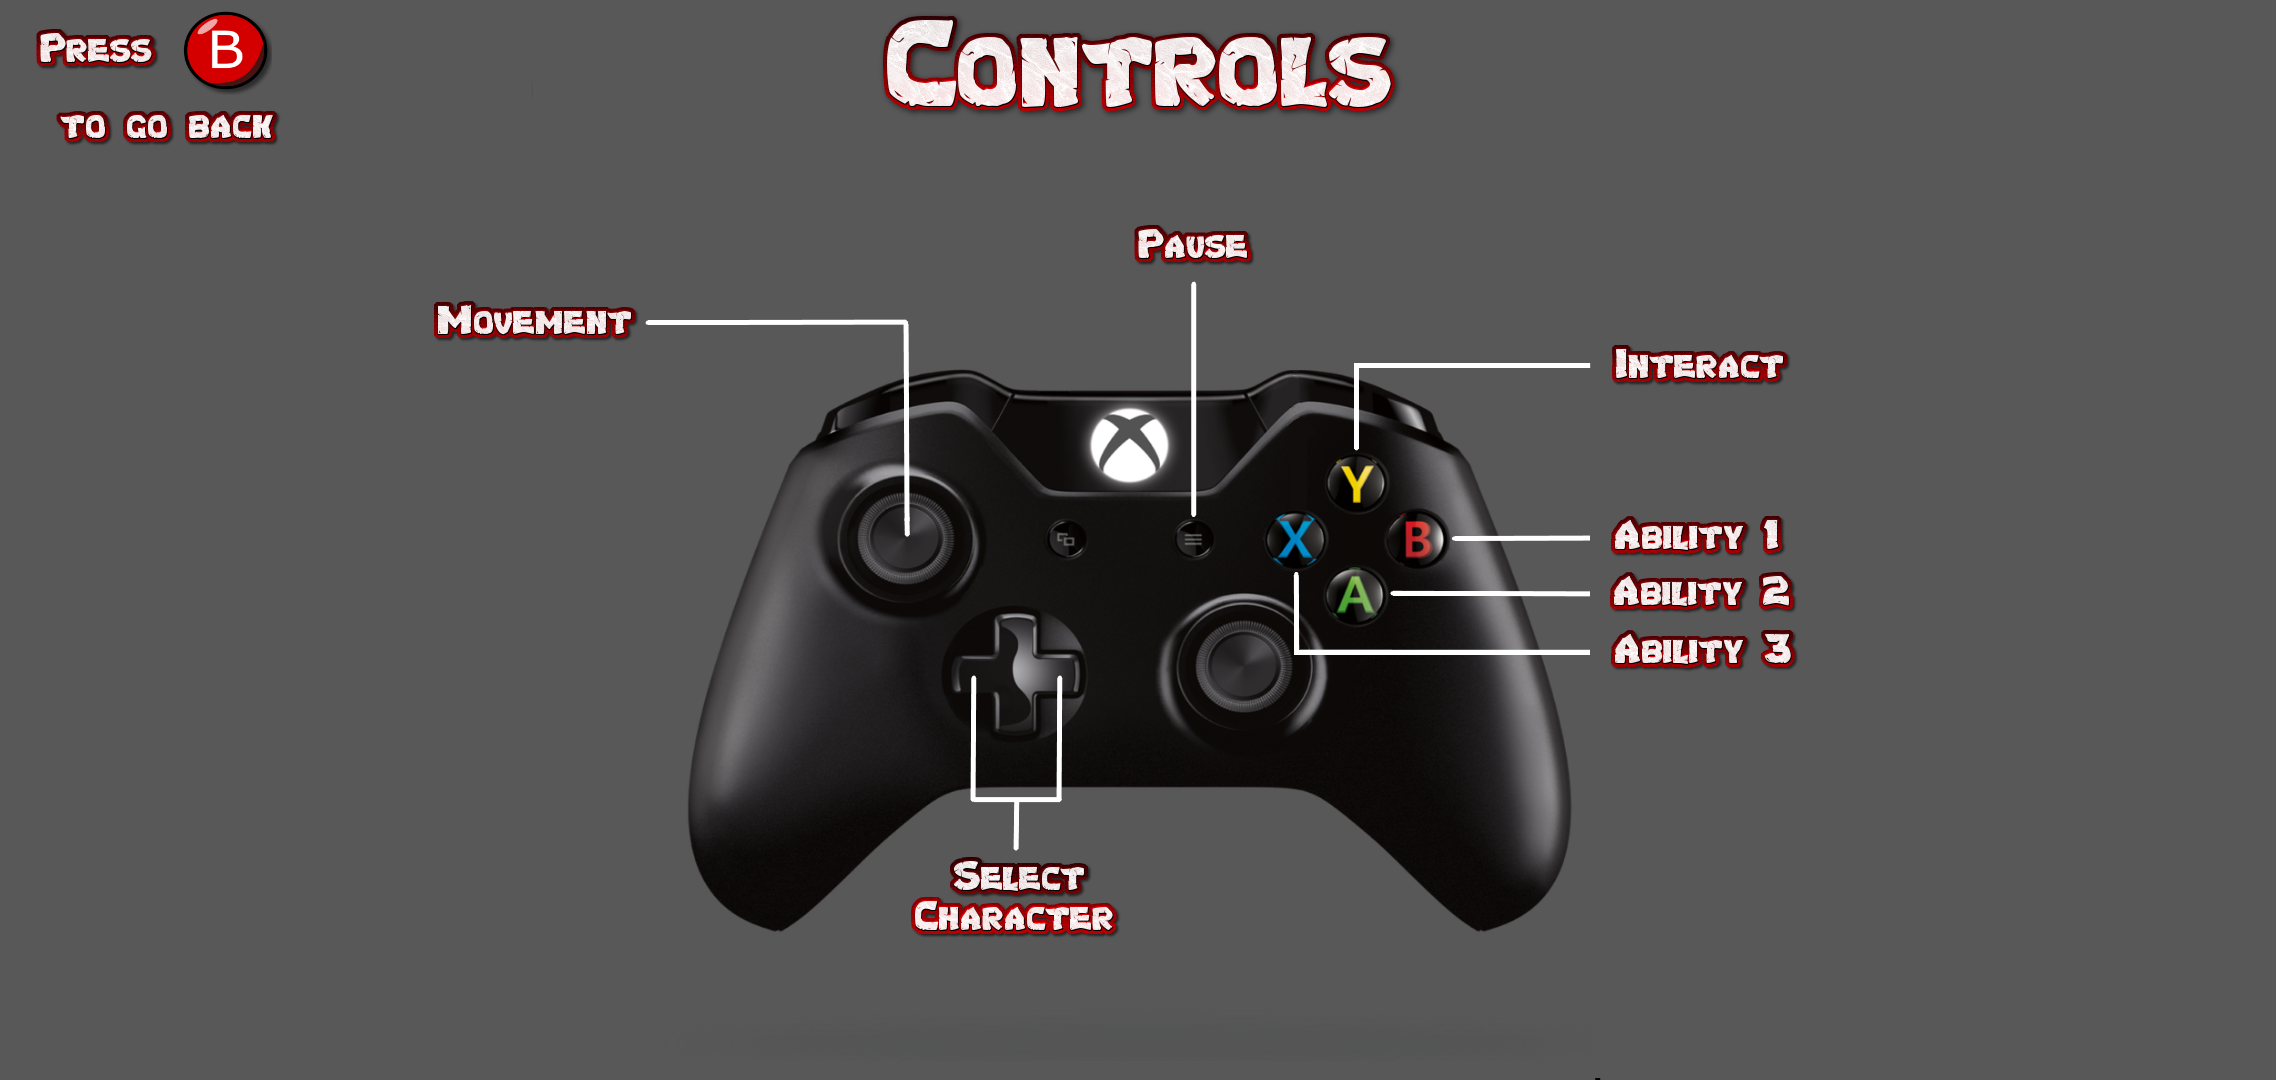
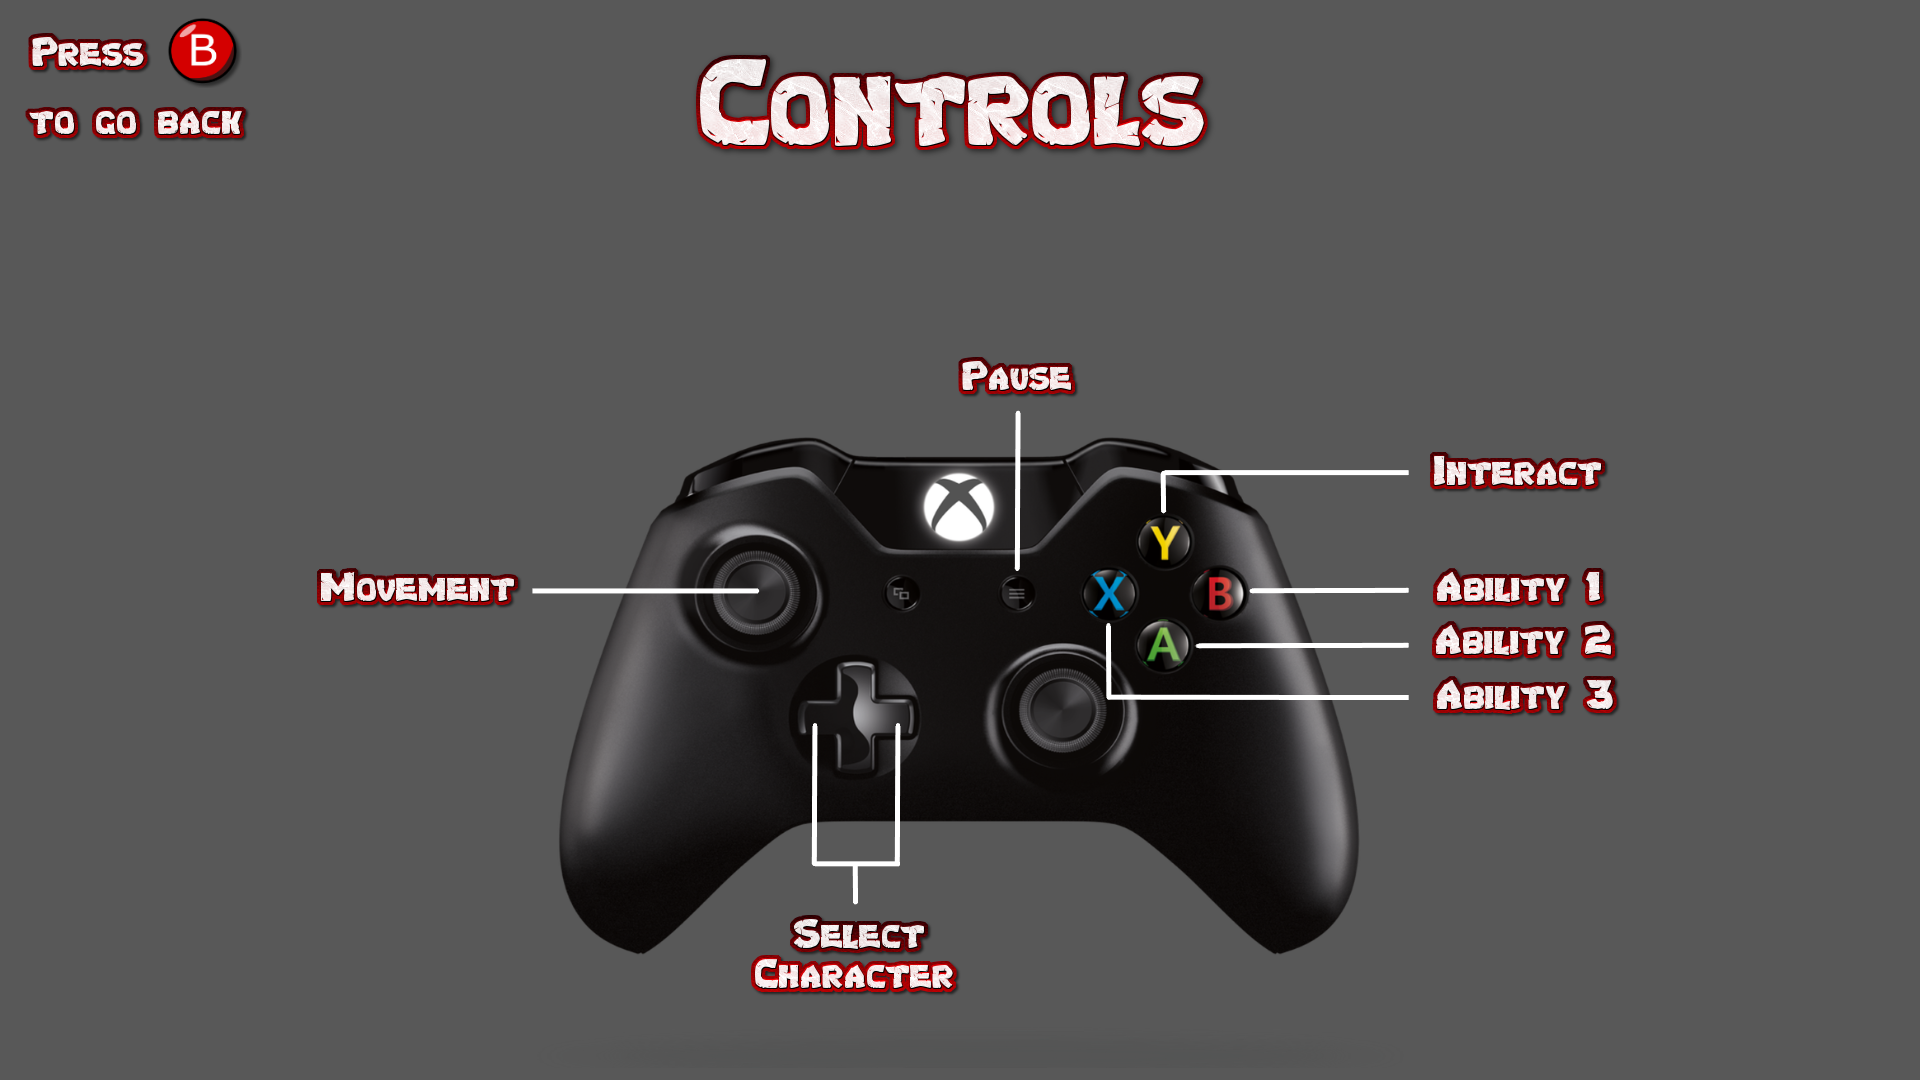
Denna commit fixar: - Hud bakgrund - Controls menyn - Alternativet att gå tillbaka i controls - Visuellt hur man skippar intro texten.

diff --git a/Paging_the_devil/Paging_the_devil/Manager/MenuManager.cs b/Paging_the_devil/Paging_the_devil/Manager/MenuManager.cs
@@ -30,6 +30,7 @@ namespace Paging_the_devil.Manager
 
         Vector2 pointerPos;
         Vector2 storyTextPos;
+        Vector2 skipTextPos;
 
         StreamReader streamReader;
 
@@ -47,10 +48,13 @@ namespace Paging_the_devil.Manager
             middleScreenX = (ValueBank.WindowSizeX/2);
 
             buttonList.Add(new Button(TextureBank.menuTextureList[0], graphicsDevice, new Vector2(middleScreenX - TextureBank.menuTextureList[0].Width/ 2, middleScreenY - TextureBank.menuTextureList[0].Height)));
-            buttonList.Add(new Button(TextureBank.menuTextureList[2], graphicsDevice, new Vector2(middleScreenX - TextureBank.menuTextureList[0].Width/ 2, middleScreenY - TextureBank.menuTextureList[0].Height + 200)));
+            buttonList.Add(new Button(TextureBank.menuTextureList[1], graphicsDevice, new Vector2(middleScreenX - TextureBank.menuTextureList[0].Width/ 2, middleScreenY - TextureBank.menuTextureList[0].Height + 150)));
+            buttonList.Add(new Button(TextureBank.menuTextureList[2], graphicsDevice, new Vector2(middleScreenX - TextureBank.menuTextureList[0].Width / 2, middleScreenY - TextureBank.menuTextureList[0].Height + 300)));
 
             pointerPos = new Vector2(buttonList[0].GetPos.X - 200, buttonList[0].GetPos.Y + 10);
             storyTextPos = new Vector2(70, ValueBank.WindowSizeY - 100);
+            skipTextPos = new Vector2(ValueBank.WindowSizeX - 400, 50);
+
             pointer = new Pointer(TextureBank.menuTextureList[5], pointerPos, buttonList);
 
             selectedBtn = 0;
@@ -86,6 +90,8 @@ namespace Paging_the_devil.Manager
                 case GameState.MainMenu:
                     mainMenuBackground.Update(gameTime);
 
+                    BackToMainMenu();
+
                     foreach (var b in buttonList)
                     {
                         b.Update();
@@ -103,7 +109,10 @@ namespace Paging_the_devil.Manager
                     {
                         ButtonClick();
                     }
-
+                    
+                    break;
+                case GameState.Controls:
+                    BackToMainMenu();
                     break;
                 case GameState.PlayerSelect:
                     PlayerSelectManager.GetController(controllerArray);
@@ -119,6 +128,7 @@ namespace Paging_the_devil.Manager
                 case GameState.StoryScreen:
                     mainMenuBackground.Draw(spriteBatch);
                     spriteBatch.DrawString(TextureBank.spriteFont, story, storyTextPos, Color.Black);
+                    spriteBatch.Draw(TextureBank.menuTextureList[17], skipTextPos, Color.White);
                     break;
                 case GameState.MainMenu:
 
@@ -132,11 +142,15 @@ namespace Paging_the_devil.Manager
 
                     pointer.Draw(spriteBatch);
                     break;
+                case GameState.Controls:
+                    spriteBatch.Draw(TextureBank.menuTextureList[16], Vector2.Zero, Color.White);
+                    break;
                 case GameState.PlayerSelect:
 
                     PlayerSelectManager.Draw(spriteBatch);
                     spriteBatch.Draw(TextureBank.menuTextureList[8], new Vector2(middleScreenX - TextureBank.menuTextureList[8].Width / 2, 100), Color.White);
                     break;
+                
             }
         }
         /// <summary>
@@ -168,10 +182,23 @@ namespace Paging_the_devil.Manager
             {
                 GameManager.currentState = GameState.PlayerSelect;
             }
-
             else if (buttonList[1].activeButton)
             {
+                GameManager.currentState = GameState.Controls;
+            }
+            else if (buttonList[2].activeButton)
+            {
                 game.Exit();
+            }
+        }
+        /// <summary>
+        /// Denna metoden ändrar currentState till main menu.
+        /// </summary>
+        private void BackToMainMenu()
+        {
+            if (controllerArray[0].ButtonPressed(Buttons.B))
+            {
+                GameManager.currentState = GameState.MainMenu;
             }
         }
         /// <summary>
@@ -179,18 +206,18 @@ namespace Paging_the_devil.Manager
         /// </summary>
         private void UpdateButtonChoise()
         {
+            if (current == States.GoingDown && previous != States.GoingDown && selectedBtn < (buttonList.Count - 1))
+            {
+                selectedBtn++;
+            }
+
+            else if (current == States.GoingUp && previous != States.GoingUp && selectedBtn > 0)
+            {
+                selectedBtn--;
+            }
+
             for (int i = 0; i < buttonList.Count; i++)
             {
-                if (current == States.GoingDown && previous != States.GoingDown && selectedBtn < (buttonList.Count - 1))
-                {
-                    selectedBtn++;
-                }
-
-                else if (current == States.GoingUp && previous != States.GoingUp && selectedBtn > 0)
-                {
-                    selectedBtn--;
-                }
-
                 buttonList[i].activeButton = false;
                 buttonList[selectedBtn].activeButton = true;
             }

diff --git a/Paging_the_devil/Paging_the_devil/Manager/GameManager.cs b/Paging_the_devil/Paging_the_devil/Manager/GameManager.cs
@@ -10,7 +10,7 @@ using Paging_the_devil.GameObject.Abilities;
 
 namespace Paging_the_devil.Manager
 {
-    public enum GameState { StoryScreen ,MainMenu, PlayerSelect, InGame }
+    public enum GameState { StoryScreen ,MainMenu, Controls, PlayerSelect, InGame }
 
 
     class GameManager
@@ -106,6 +106,10 @@ namespace Paging_the_devil.Manager
 
                     DisconnectController();
                     break;
+                case GameState.Controls:
+                    menuManager.Update(gameTime);
+                    controllerArray[0].Update();
+                    break;
                 case GameState.PlayerSelect:
                     ConnectController();
                     UpdateController();
@@ -189,6 +193,9 @@ namespace Paging_the_devil.Manager
                     menuManager.Draw(spriteBatch);
                     break;
                 case GameState.PlayerSelect:
+                    menuManager.Draw(spriteBatch);
+                    break;
+                case GameState.Controls:
                     menuManager.Draw(spriteBatch);
                     break;
                 case GameState.InGame:

diff --git a/Paging_the_devil/Paging_the_devil/Manager/HUDManager.cs b/Paging_the_devil/Paging_the_devil/Manager/HUDManager.cs
@@ -11,6 +11,8 @@ namespace Paging_the_devil.Manager
 
         Vector2 pos;
 
+        Rectangle hudBackground;
+
         Player[] playerArray;
 
         public HUD[] playerHudArray { get; set; }
@@ -20,7 +22,7 @@ namespace Paging_the_devil.Manager
             this.playerArray = playerArray;
             this.nrOfPlayers = nrOfPlayers;
             playerHudArray = new HUD[4];
-
+            hudBackground = new Rectangle(0, 0, ValueBank.WindowSizeX, ValueBank.WindowSizeY / 8);
             CreateHUDs();
         }
 
@@ -33,6 +35,8 @@ namespace Paging_the_devil.Manager
         }
         public void Draw(SpriteBatch spriteBatch)
         {
+            spriteBatch.Draw(TextureBank.menuTextureList[3], hudBackground, Color.Black);
+
             for (int i = 0; i < nrOfPlayers; i++)
             {
                 playerHudArray[i].Draw(spriteBatch);
@@ -63,6 +67,10 @@ namespace Paging_the_devil.Manager
 
                 playerHudArray[i] = new HUD(pos, playerArray[i]);
             }
+        }
+        private void CreateHUDBackground()
+        {
+          
         }
     }
 }

diff --git a/Paging_the_devil/Paging_the_devil/Manager/TextureBank.cs b/Paging_the_devil/Paging_the_devil/Manager/TextureBank.cs
@@ -78,6 +78,8 @@ namespace Paging_the_devil.Manager
             menuTextureList.Add(Content.Load<Texture2D>(@"RangerInfo"));
             menuTextureList.Add(Content.Load<Texture2D>(@"BarbInfo"));
             menuTextureList.Add(Content.Load<Texture2D>(@"DruidInfo"));
+            menuTextureList.Add(Content.Load<Texture2D>(@"Controls"));
+            menuTextureList.Add(Content.Load<Texture2D>(@"SkipText"));
 
             //HUD
             hudTextureList.Add(Content.Load<Texture2D>(@"Abtn"));
